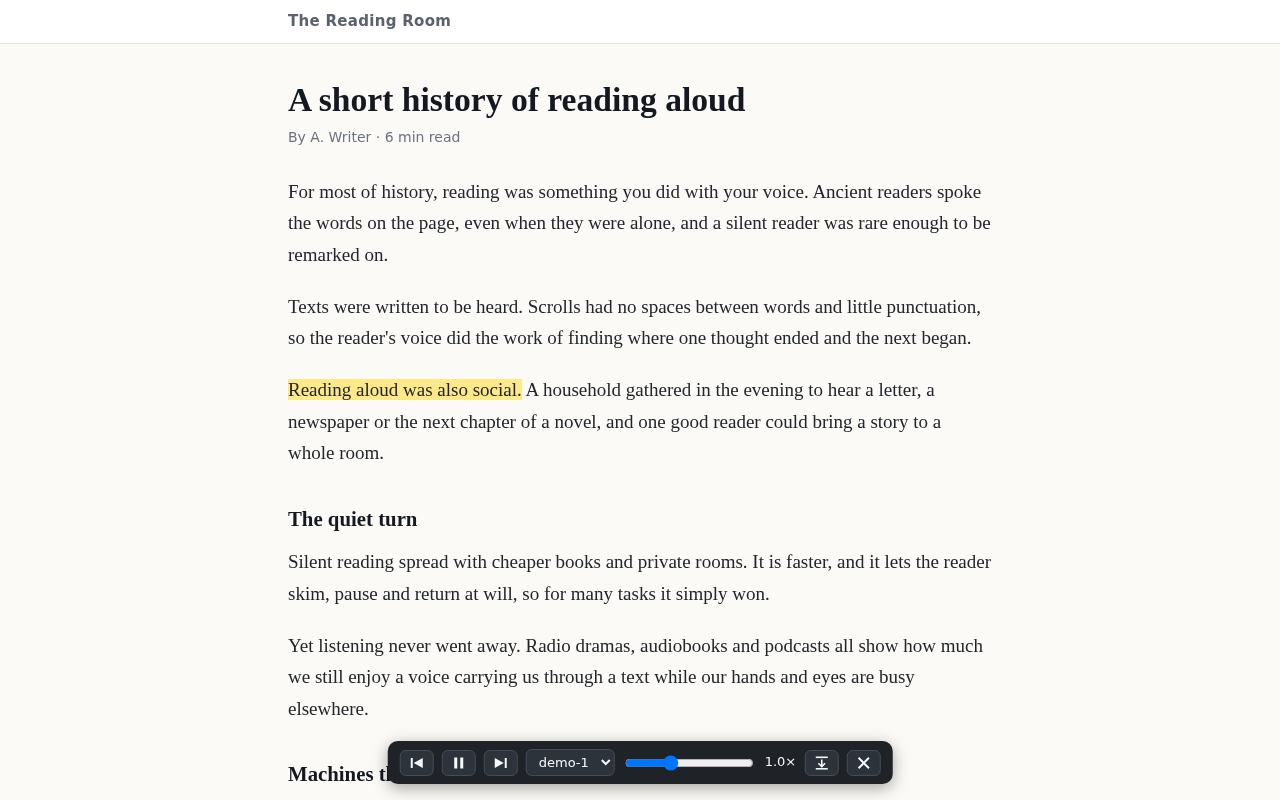
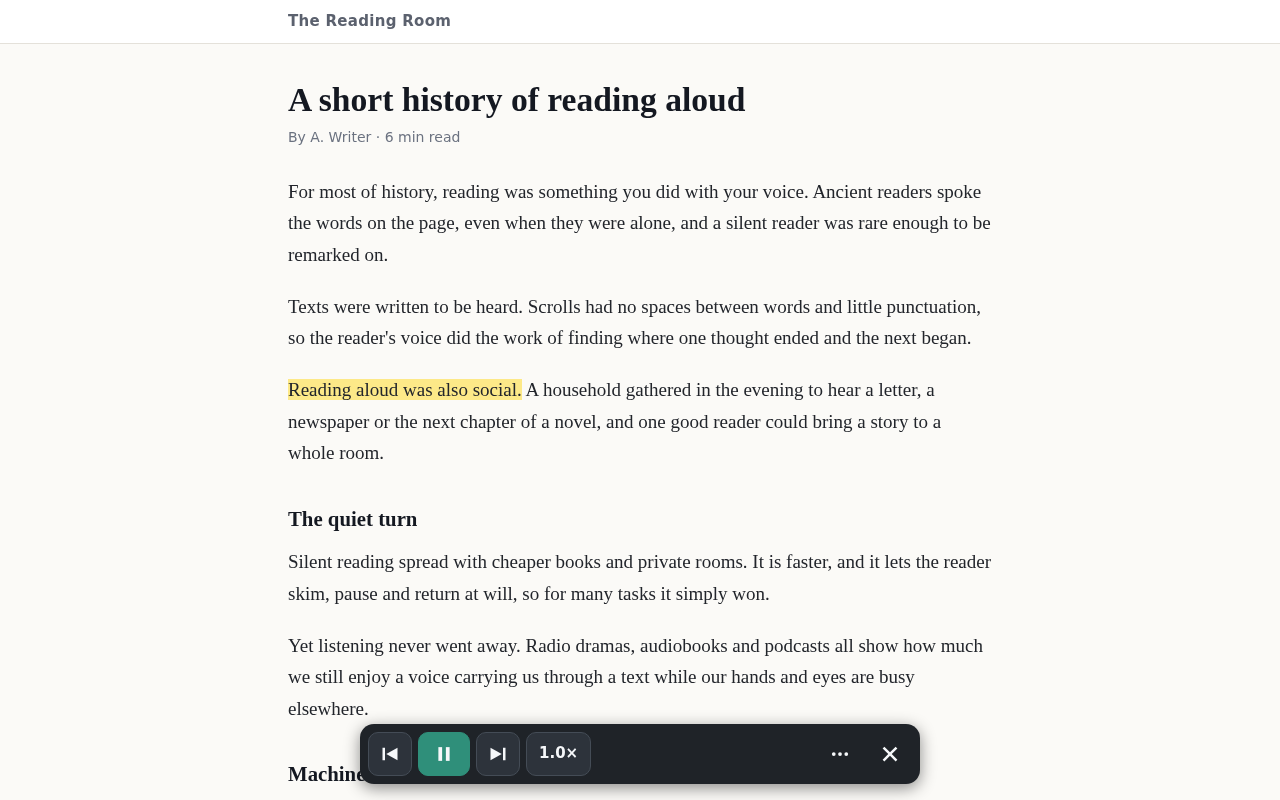
docs: 1.1.0 listing kit with Edge Android section

Changed region(s): [[0.25, 0.875, 0.75, 1.0]]

diff --git a/store/listing.md b/store/listing.md
@@ -29,6 +29,10 @@ Features:
 - Previous / next sentence, and paragraph with Shift.
 - Voice and speed (0.5x to 2.0x) on the player bar; optional autoscroll.
 - Keyboard shortcut Alt+Shift+R to start, pause and resume.
+- Keeps playing when the screen is locked, with play / pause and previous / next sentence from
+  the lock screen, the media notification, a headset or media keys.
+- On touch screens: a one-row player bar, and "From here" / "Selection" buttons that appear on
+  the bar when you select text while reading.
 - Polish and English sentence splitting; the next sentences are fetched ahead for smooth playback.
 
 Choose a speech engine on the setup screen that opens after install:
@@ -75,13 +79,19 @@ https://github.com/gmotyl/lektor-tts/blob/main/PRIVACY.md
   menu, Lektor gets temporary access to that tab only, to read its text and show the player bar.
 - `scripting`: injects the content script (text extraction, sentence highlight, player bar) into
   the tab the user started reading in, on demand; nothing is injected into other pages.
-- `offscreen`: an MV3 service worker cannot play audio, so an offscreen document holds the
-  `<audio>` element that plays the speech.
+- `web_accessible_resources` (player frame): `src/player.html` and the modules it loads
+  (`src/player.mjs`, `src/player/player.mjs`, `src/player/queue.mjs`, `src/engine.mjs`,
+  `src/settings.mjs`, `src/presets.mjs`) are exposed so the player bar can embed the extension's
+  own player page as an iframe in the tab being read. That page holds the `<audio>` element and
+  the media session, so speech keeps playing when the phone screen is locked and can be
+  controlled from the lock screen or a headset. Only the player page and its modules (code) are
+  exposed; they contain no data, and settings and keys stay in extension storage, which a web
+  page cannot read.
 - `contextMenus`: adds "Read selection" and "Read from here" to the page's right-click menu.
 - `storage`: keeps the user's settings (engine preset, server address, API key, model, voice,
-  speed, autoscroll) in `chrome.storage.sync`, and the current reading session (sentences being
-  read and engine settings) in `chrome.storage.session`, in memory only and cleared when the
-  browser closes, so playback survives a background worker restart.
+  speed, autoscroll) in `chrome.storage.sync`, and the id of the tab currently reading in
+  `chrome.storage.session` (in memory only, cleared when the browser closes), so that "one tab
+  reads at a time" survives a background worker restart.
 - Host permissions `http://localhost/*` and `http://127.0.0.1/*`: reach a speech server running
   on the user's own computer (omnivoice-server listens on `http://localhost:8892/v1`) without a
   prompt.
@@ -104,14 +114,77 @@ in the store dashboard, never stored in the repository).
    Alt+Shift+R, or right-click it and choose "Read selection". The player bar appears and the
    text is read aloud with the current sentence highlighted.
 5. Right-click another paragraph and choose "Read from here", or click the toolbar icon with
-   nothing selected to read the whole article. Use pause, previous / next, voice and speed on the
-   bar; × closes it.
+   nothing selected to read the whole article. Use pause, previous / next and the speed chip on
+   the bar; ⋯ folds out voice, the speed slider and autoscroll; × closes it.
 6. Optional, unconfigured state: in a fresh profile, before saving any engine, clicking the
    toolbar icon shows "Lektor needs a speech engine before it can read." with a "Set up a speech
    engine" button that opens the setup screen.
 
 The omnivoice-server and "Other server" engines need a server the reviewer does not have; the
 OpenAI engine covers the whole reading flow.
+
+## Edge Android
+
+One-time allowlist request for Microsoft Edge on Android, following the Edge team's answer in
+[MicrosoftEdge-Extensions#529](https://github.com/microsoft/MicrosoftEdge-Extensions/issues/529)
+(2026-03-16). Requirements: the extension is on Edge Add-ons, has a clear value statement for
+mobile users, its core functions are verified on Edge Android / iOS, and core-function test cases
+are provided for the Edge Android QA team. Then submit the request form:
+https://forms.office.com/pages/responsepage.aspx?id=v4j5cvGGr0GRqy180BHbR8G-LK4A-v5AgScqcFFv6_RUM0RMRDgzUENURDE0UzA2RlhIRUk0S0xIMy4u&route=shorturl
+
+Device status: verified so far on Vivaldi for Android (Samsung Galaxy S23 Ultra); see
+`openspec/changes/2026-11-16-mobile-reader/verification/device.md` once Task 11 is recorded.
+Edge Android itself has not been tested yet; do not claim it in the form until the cases below
+have been run there.
+
+### Value statement for mobile users
+
+Lektor TTS turns any article into something you can listen to on the go. Start it on a page,
+lock the phone, put it in your pocket and keep listening: speech continues with the screen off,
+and play / pause and previous / next sentence work from the lock screen, the media notification
+and headset buttons. On the page, a compact one-row player bar fits a phone screen, the sentence
+being read is highlighted, and selecting text while reading offers "From here" and "Selection"
+buttons, so there is no need for a right-click menu or a keyboard shortcut. It works with OpenAI
+text-to-speech or any OpenAI-compatible speech server, and collects no data.
+
+### Test cases
+
+Engine for the QA team: OpenAI, with a reviewer API key supplied in the request (never stored in
+the repository), or any public OpenAI-compatible speech endpoint through "Other server".
+
+1. **Install**
+   - Steps: install Lektor TTS from Edge Add-ons on Edge for Android.
+   - Expected: the setup screen ("Lektor TTS", "Speech engine") opens in a new tab.
+2. **Set up an engine**
+   - Steps: on the setup screen pick "OpenAI", paste the reviewer key, keep the default voice and
+     tap "Save and test"; allow access to `api.openai.com` if the browser asks. (Alternative:
+     "Other server" with the base URL of an OpenAI-compatible endpoint and its key.)
+   - Expected: the page shows "✓ Connected to OpenAI · 13 voices" (or "✓ Connected to … · N
+     voices" for another server).
+3. **Read an article**
+   - Steps: open an article (for example a Wikipedia article) and start Lektor from the
+     extensions menu (Lektor TTS).
+   - Expected: the one-row player bar appears at the bottom of the page, the article is read
+     aloud from the top and the sentence being read is highlighted and kept in view. Pause /
+     play, previous / next and the speed chip respond; ⋯ folds out voice, speed slider and
+     autoscroll; × stops reading and removes the bar.
+4. **Selection actions**
+   - Steps: while reading, long-press a word in a later paragraph and extend the selection over a
+     sentence or two. Tap "Selection". Then select text in another paragraph and tap "From here".
+   - Expected: on selecting, "From here" and "Selection" buttons appear above the bar's row.
+     "Selection" reads only the selected text and stops at its end; "From here" continues reading
+     the article from the selected paragraph onward.
+5. **Screen-locked playback**
+   - Steps: start reading an article (case 3), then press the power button to lock the screen and
+     wait at least one minute.
+   - Expected: speech continues across sentences with the screen off; after unlocking, the
+     highlight is on the sentence being read.
+6. **Lock-screen media controls**
+   - Steps: while reading with the screen locked, use the media notification on the lock screen
+     (or a headset button): pause, play, next, previous.
+   - Expected: the notification shows the page title; pause and play pause and resume speech,
+     next / previous jump one sentence forward / back, and the page's bar reflects the same state
+     after unlocking.
 
 ## Chrome Web Store
 
@@ -145,6 +218,19 @@ Publisher: the developer account registered for motyl.dev; contact email greg@mo
   nothing else. Tick all three certifications: not sold to third parties, not used for purposes
   unrelated to the single purpose, not used for creditworthiness or lending.
 - Privacy policy URL: the [Privacy policy URL](#privacy-policy-url).
+
+### Test instructions
+
+The dashboard's "Test instructions" field takes at most 500 characters, so paste this short
+version (the full steps are in [Notes for certification](#notes-for-certification)). Put the
+reviewers' OpenAI key in the credentials field if the form shows one, otherwise append it to the
+text (about 300 characters, so a 164-character `sk-proj-` key still fits under 500):
+
+```text
+1. Setup screen opens on install: pick OpenAI, paste the key, Save and test, allow api.openai.com.
+2. On a Wikipedia article select a paragraph, press Alt+Shift+R: the bar appears, text is read with the sentence highlighted.
+3. Toolbar icon with nothing selected reads the article. × closes.
+```
 
 ### Distribution tab
 

diff --git a/README.md b/README.md
@@ -19,6 +19,11 @@ player bar sits on top of the page.
 - **Navigation** by sentence, and by paragraph with Shift.
 - **Highlight** of the current sentence (CSS Custom Highlight API, no DOM changes).
 - **Voice** and **speed** (0.5–2.0) from the bar or the options page.
+- **Screen off**: audio plays in the player frame inside the tab, so reading continues with the
+  screen locked, and the Media Session gives play / pause and previous / next sentence on the
+  lock screen, the media notification, headsets and media keys.
+- **Touch**: a one-row bar on phones; selecting text while reading shows **From here** and
+  **Selection** buttons on the bar.
 
 Polish and English text are segmented into sentences (abbreviations, decimal commas, quotes);
 long sentences are cut into pieces of at most 400 characters, and the next sentences are
@@ -261,16 +266,21 @@ Specs live in `openspec/specs/`; open changes in `openspec/changes/`.
    `pnpm package` refuses).
 2. `pnpm lint && pnpm test` (the test run builds `dist/content.js` first).
 3. `pnpm package` → `lektor-tts-<version>.zip`.
-4. `pnpm screenshots` if the UI changed, and commit the new `store/*.png`.
+4. `pnpm screenshots`, and commit the new `store/*.png` if the UI changed.
 5. Upload the same zip to both stores and paste the texts from
    [`store/listing.md`](store/listing.md):
-   - **Edge:** Partner Center (descriptions, permission justifications, notes for certification).
-   - **Chrome:** Chrome Web Store Developer Dashboard (Store listing tab, Privacy practices tab,
-     Test instructions; see the Chrome section of the listing file).
+   - **Edge Add-ons:** Partner Center (descriptions, permission justifications, notes for
+     certification).
+   - **Chrome Web Store:** Developer Dashboard (Store listing tab, Privacy practices tab, the
+     short Test instructions; see the Chrome section of the listing file).
 
    Each store gets its own reviewers' OpenAI key, pasted only into that store's submission notes,
    never into the repo; revoke it once the release is approved.
 6. Tag the release: `git tag v<version> && git push origin v<version>`.
+7. Once, after the release is live on Edge Add-ons: request the Edge Android allowlist with the
+   value statement, test cases and form link in
+   [`store/listing.md` § Edge Android](store/listing.md#edge-android). Run the test cases on Edge
+   for Android first.
 
 Created by Greg Motyl — [github.com/gmotyl](https://github.com/gmotyl)
 
